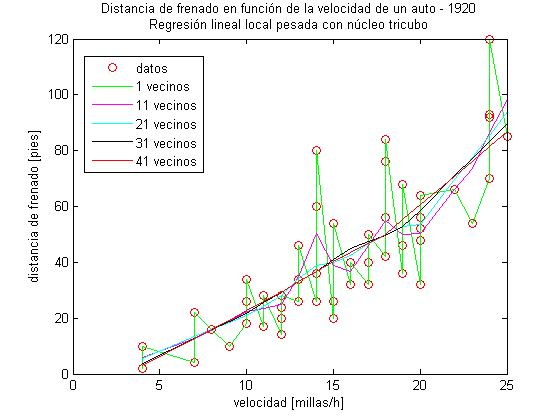
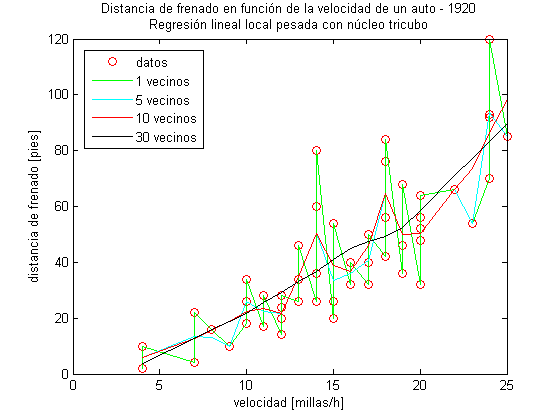
nuevos graficos, e1 - separacion de conjuntos y refactor e2 - 5,10,30

diff --git a/aprendizaje automático/tp6 - estadistica no paramétrica/src/e2.m b/aprendizaje automático/tp6 - estadistica no paramétrica/src/e2.m
@@ -25,27 +25,28 @@ plot(x,y,'ro');
 hold on;
 lengthdata=size(y,1);
 
-colors={'g','m','c','k','r'};
+colors={'m','g','c','r','k'};
 colorsize=size(colors,2)
 
-start=1;
-step=10;
-stop=41;
+range=[1,5,10,30];
 
-for i=start:step:stop
+j=1;
+for i=range
     spanvalue=i/lengthdata;
     span=ceil(spanvalue*length(y));
     z=smooth(x,y,span,'lowess');
-    c=mod(round(i/step),colorsize)+1
+    c=mod(j,colorsize)+1
     plot(x,z,colors{c});
     hold on;
+    j=j+1;
 end
 
 l{1}='datos';
-
-for i=start:step:stop    
-    j=round(i/step)+2
+j=2;
+for i=range
+    %j=round(i/step)+2
     l{j}=strcat(num2str(i),' vecinos');
+    j=j+1;
 end
 
 legend(l);

diff --git a/aprendizaje automático/tp6 - estadistica no paramétrica/src/e1b.m b/aprendizaje automático/tp6 - estadistica no paramétrica/src/e1b.m
@@ -2,18 +2,20 @@ clc;clear;
 load fisheriris;
 % species meas
 
+[sample,training,group,checkgroup]=divide(meas,species,100);
+
 % punto a
-[k correct]=e1helper(species,meas(:,1:2),meas(:,1:2),species);
+[k correct]=e1helper(group,sample(:,1:2),training(:,1:2),checkgroup);
 plot(k,correct,'r')
 hold on;
 
 %punto b
-[k correct]=e1helper(species,meas(:,3:4),meas(:,3:4),species);
+[k correct]=e1helper(group,sample(:,3:4),training(:,3:4),checkgroup);
 plot(k,correct,'b')
 hold on;
 
 %punto c
-[k correct]=e1helper(species,meas,meas,species);
+[k correct]=e1helper(group,sample,training,checkgroup);
 plot(k,correct,'g');
 hold on;
 

diff --git a/aprendizaje automático/tp6 - estadistica no paramétrica/src/e1helper.m b/aprendizaje automático/tp6 - estadistica no paramétrica/src/e1helper.m
@@ -1,0 +1,17 @@
+function [ k correct ] = e1helper( group, sample, training, checkgroup )
+
+    distance='euclidean';
+    n=size(sample,1);
+    
+    j=1;
+    for i=0.1:0.02:1
+        k(j)=round(i*n);
+        c=knnclassify(sample,training,group,k(j),distance);
+        mistake(j)=size(find(strcmp(c,checkgroup)==0),1);
+        correct(j)=(n-mistake(j))/n;
+        error=mistake(j)/n;   
+        j=j+1;
+    end
+
+end
+

diff --git a/aprendizaje automático/tp6 - estadistica no paramétrica/src/divide.m b/aprendizaje automático/tp6 - estadistica no paramétrica/src/divide.m
@@ -1,0 +1,18 @@
+function [sample,training,group,checkgroup] = divide( data, answer, limit)
+
+lenght=size(data,1)
+indexes=randperm(lenght);
+g1=indexes(:,1:limit);
+g2=indexes(:,(limit+1):lenght);
+
+training=data(g1,:);
+group=answer(g1,:);
+
+size(training)
+size(group)
+
+sample=data(g2,:);
+checkgroup=answer(g2,:);
+
+end
+
